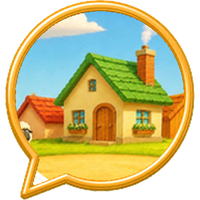
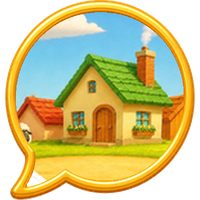
Icona xat veïnat: bombolla daurada 2 amb fletxa gran
Claude-Session: https://claude.ai/code/session_01EDSP4xsThy8KRz6733WLVq

diff --git a/nova/index.html b/nova/index.html
@@ -523,7 +523,7 @@ html,body{-webkit-touch-callout:none;-webkit-user-select:none;user-select:none;-
 
 <script>/* xarxa de seguretat: si l'app no arrenca, botó per actualitzar */setTimeout(function(){var a=document.getElementById("app");if(a&&!a.innerHTML.trim()){a.innerHTML='<div style="padding:40px 20px;text-align:center;font:600 17px system-ui"><p>No s\'ha pogut obrir l\'app.</p><button id="sosup" style="font:700 17px system-ui;padding:12px 22px;border-radius:999px;border:0;background:#17599a;color:#fff">Actualitza</button></div>';document.getElementById("sosup").onclick=function(){(window.caches?caches.keys().then(function(k){return Promise.all(k.map(function(x){return caches.delete(x)}))}):Promise.resolve()).then(function(){location.reload()})};}},2500);</script>
 <script>
-const APPV="1793563188";let UPD=0,UPS=0;
+const APPV="1793563415";let UPD=0,UPS=0;
 
 const IC={"docs": "<svg viewBox=\"0 0 40 40\" width=\"22\" height=\"22\" aria-hidden=\"true\"><path d=\"M9 4h15l8 8v23a2 2 0 0 1-2 2H9a2 2 0 0 1-2-2V6a2 2 0 0 1 2-2z\" fill=\"#fff\" stroke=\"#5b6b7a\" stroke-width=\"1.5\"/><path d=\"M24 4v8h8\" fill=\"#e3e8ee\" stroke=\"#5b6b7a\" stroke-width=\"1.5\" stroke-linejoin=\"round\"/><circle cx=\"27\" cy=\"29\" r=\"8.5\" fill=\"#3f8a3a\" stroke=\"#fff\" stroke-width=\"1.6\"/><path d=\"M27 33.5v-9M23 28l4-4 4 4\" fill=\"none\" stroke=\"#fff\" stroke-width=\"2.2\" stroke-linecap=\"round\" stroke-linejoin=\"round\"/><path d=\"M12 17h10M12 21h7\" stroke=\"#9aa6b2\" stroke-width=\"1.6\" stroke-linecap=\"round\"/></svg>", "receptari": "<svg viewBox=\"0 0 40 40\" width=\"22\" height=\"22\" aria-hidden=\"true\"><path d=\"M6 7c5-2 10-2 14 1v27c-4-3-9-3-14-1z\" fill=\"#fff6e3\" stroke=\"#8a5a2b\" stroke-width=\"1.4\" stroke-linejoin=\"round\"/><path d=\"M34 7c-5-2-10-2-14 1v27c4-3 9-3 14-1z\" fill=\"#fff6e3\" stroke=\"#8a5a2b\" stroke-width=\"1.4\" stroke-linejoin=\"round\"/><path d=\"M4 9v26c6-2 11-2 16 1 5-3 10-3 16-1V9\" fill=\"none\" stroke=\"#c8352b\" stroke-width=\"2.4\" stroke-linejoin=\"round\"/><path d=\"M10 14h6M10 18h6M24 14h6M24 18h5\" stroke=\"#c9a46a\" stroke-width=\"1.5\" stroke-linecap=\"round\"/><path d=\"M27 24c0-2 3-2 3 0 0 2-3 3.5-3 3.5s-3-1.5-3-3.5c0-2 3-2 3 0z\" fill=\"#e0533f\"/></svg>", "menu": "<svg viewBox=\"0 0 40 40\" width=\"22\" height=\"22\" aria-hidden=\"true\"><rect x=\"5\" y=\"7\" width=\"30\" height=\"28\" rx=\"3\" fill=\"#fff\" stroke=\"#2f74b5\" stroke-width=\"1.5\"/><path d=\"M5 10a3 3 0 0 1 3-3h24a3 3 0 0 1 3 3v4H5z\" fill=\"#2f74b5\"/><path d=\"M12 4v6M28 4v6\" stroke=\"#1f4f80\" stroke-width=\"2.2\" stroke-linecap=\"round\"/><circle cx=\"20\" cy=\"25\" r=\"6.5\" fill=\"#f3e3c4\" stroke=\"#c9a46a\" stroke-width=\"1.3\"/><circle cx=\"20\" cy=\"25\" r=\"3.8\" fill=\"#fff\" stroke=\"#e2cfa6\" stroke-width=\"1\"/><path d=\"M10.5 20v10M9 20v3.5a1.5 1.5 0 0 0 3 0V20M29.5 20c1.6 0 1.8 3 1.8 4.6 0 1-.8 1.4-1.8 1.4V30\" fill=\"none\" stroke=\"#8a93a0\" stroke-width=\"1.2\" stroke-linecap=\"round\"/></svg>", "treball": "<svg viewBox=\"0 0 40 40\" width=\"22\" height=\"22\" aria-hidden=\"true\"><rect x=\"8\" y=\"6\" width=\"24\" height=\"30\" rx=\"3\" fill=\"#c98a4b\" stroke=\"#7a4a1e\" stroke-width=\"1.4\"/><rect x=\"11\" y=\"10\" width=\"18\" height=\"23\" rx=\"1.5\" fill=\"#fff\"/><rect x=\"15\" y=\"3.5\" width=\"10\" height=\"5\" rx=\"1.5\" fill=\"#9aa0a6\" stroke=\"#6b7177\" stroke-width=\"1\"/><path d=\"M14 16l2 2 3.5-3.5M14 23l2 2 3.5-3.5\" fill=\"none\" stroke=\"#3f8a3a\" stroke-width=\"1.9\" stroke-linecap=\"round\" stroke-linejoin=\"round\"/><path d=\"M22 17h5M22 24h5M14 29.5h13\" stroke=\"#b9bfc6\" stroke-width=\"1.6\" stroke-linecap=\"round\"/></svg>", "despesa": "<svg viewBox=\"0 0 40 40\" width=\"22\" height=\"22\" aria-hidden=\"true\"><path d=\"M8 4h20v31l-2.5-2-2.5 2-2.5-2-2.5 2-2.5-2-2.5 2-2.5-2L8 35z\" fill=\"#fff\" stroke=\"#7a838b\" stroke-width=\"1.4\" stroke-linejoin=\"round\"/><path d=\"M12 10h12M12 14h9M12 18h12\" stroke=\"#b9bfc6\" stroke-width=\"1.6\" stroke-linecap=\"round\"/><circle cx=\"27\" cy=\"27\" r=\"8\" fill=\"#f2c14a\" stroke=\"#c48a1a\" stroke-width=\"1.5\"/><path d=\"M29.6 23.6a4 4 0 1 0 0 6.8M22.8 25.8h5.4M22.8 28.2h5.4\" fill=\"none\" stroke=\"#8a5a10\" stroke-width=\"1.6\" stroke-linecap=\"round\"/></svg>", "hudsilo": "<svg aria-hidden=\"true\" width=\"30\" height=\"30\" viewBox=\"0 0 64 64\"><defs><linearGradient id=\"hsr\" x1=\"0\" x2=\"1\"><stop offset=\"0\" stop-color=\"#8f1a12\"/><stop offset=\".28\" stop-color=\"#d8392a\"/><stop offset=\".55\" stop-color=\"#e9503d\"/><stop offset=\"1\" stop-color=\"#9e2016\"/></linearGradient><linearGradient id=\"hsroof\" x1=\"0\" x2=\"1\"><stop offset=\"0\" stop-color=\"#3f3029\"/><stop offset=\".45\" stop-color=\"#7b6556\"/><stop offset=\"1\" stop-color=\"#4a3a31\"/></linearGradient><linearGradient id=\"hsgr\" x1=\"0\" y1=\"0\" x2=\"0\" y2=\"1\"><stop offset=\"0\" stop-color=\"#f7d36a\"/><stop offset=\".25\" stop-color=\"#e3a43a\"/><stop offset=\"1\" stop-color=\"#b8711e\"/></linearGradient><linearGradient id=\"hsmet\" x1=\"0\" x2=\"1\"><stop offset=\"0\" stop-color=\"#5d666e\"/><stop offset=\".5\" stop-color=\"#b9c2ca\"/><stop offset=\"1\" stop-color=\"#626b73\"/></linearGradient><linearGradient id=\"hsst\" x1=\"0\" y1=\"0\" x2=\"0\" y2=\"1\"><stop offset=\"0\" stop-color=\"#e4d8c6\"/><stop offset=\"1\" stop-color=\"#a99880\"/></linearGradient></defs><ellipse cx=\"32\" cy=\"58.5\" rx=\"17\" ry=\"4.2\" fill=\"url(#hsst)\" stroke=\"#7d6c56\" stroke-width=\"1.2\"/><path d=\"M17 17h30l-2.6 40.6c-6.2 2.2-18.6 2.2-24.8 0z\" fill=\"url(#hsr)\" stroke=\"#5f130c\" stroke-width=\"1.5\" stroke-linejoin=\"round\"/><path d=\"M22.4 18.5l1 40M27.6 18.6l.4 40.6M32.8 18.6v40.8M38 18.6l-.4 40.6M43.2 18.5l-1 40\" stroke=\"#7d160e\" stroke-width=\"1\" opacity=\".75\"/><path d=\"M20.2 18.8l1.6 38.4\" stroke=\"#f47b66\" stroke-width=\"1.6\" opacity=\".7\"/><path d=\"M17.3 27.5c8.6 2.8 20.8 2.8 29.4 0M18.3 44c8 2.6 19.4 2.6 27.4 0\" fill=\"none\" stroke=\"#5f130c\" stroke-width=\"3.4\" opacity=\".35\"/><path d=\"M17.3 27c8.6 2.8 20.8 2.8 29.4 0M18.3 43.5c8 2.6 19.4 2.6 27.4 0\" fill=\"none\" stroke=\"#fbf6ee\" stroke-width=\"2.4\"/><path d=\"M28.4 21.5h7.2l-1.2 33h-4.8z\" fill=\"#fbf6ee\" stroke=\"#6b1a10\" stroke-width=\"1\"/><path d=\"M29.9 23.2h4.2l-1 29.6h-2.2z\" fill=\"#5d120b\"/><path d=\"M30.4 36.5h3.4l-.7 16.3h-2.2z\" fill=\"url(#hsgr)\"/><path d=\"M30.2 37c.3-4.4 3.5-4.4 3.8 0z\" fill=\"#f7d36a\" stroke=\"#c48a26\" stroke-width=\".5\"/><circle cx=\"31.4\" cy=\"34.8\" r=\".5\" fill=\"#fff3c4\"/><circle cx=\"32.8\" cy=\"35.6\" r=\".4\" fill=\"#fff3c4\"/><path d=\"M19.5 41l-2.6.6.4 14.8M44.5 41l2.6.6-.4 14.8\" fill=\"none\" stroke=\"url(#hsmet)\" stroke-width=\"2.4\" stroke-linecap=\"round\" stroke-linejoin=\"round\"/><rect x=\"15.6\" y=\"55.3\" width=\"3.4\" height=\"2\" rx=\".6\" fill=\"#7d868f\" stroke=\"#3f464c\" stroke-width=\".6\"/><rect x=\"45\" y=\"55.3\" width=\"3.4\" height=\"2\" rx=\".6\" fill=\"#7d868f\" stroke=\"#3f464c\" stroke-width=\".6\"/><path d=\"M46 21.4h4.4v3.4\" fill=\"none\" stroke=\"url(#hsmet)\" stroke-width=\"2.2\" stroke-linecap=\"round\"/><path d=\"M50.4 24.8c1.4 4 .6 8 -1 10\" fill=\"none\" stroke=\"#a87c4f\" stroke-width=\".9\"/><path d=\"M32 3.5 14.2 17.4c5 2.4 30.6 2.4 35.6 0z\" fill=\"url(#hsroof)\" stroke=\"#2a201b\" stroke-width=\"1.5\" stroke-linejoin=\"round\"/><path d=\"M32 4.4l-7.6 13.8M32 4.4l7.2 13.8\" stroke=\"#8d7766\" stroke-width=\".8\" opacity=\".6\"/><path d=\"M21.6 11l6.2-2.2 2.4 4.2-6.4 2.2z\" fill=\"#d3d9de\" stroke=\"#5f676e\" stroke-width=\"1\"/><path d=\"M24.4 11.6l2.4-.8\" stroke=\"#5f676e\" stroke-width=\"1\" stroke-linecap=\"round\"/></svg>", "shopico": "<svg aria-hidden=\"true\" width=\"34\" height=\"34\" viewBox=\"0 0 64 64\"><defs><linearGradient id=\"bw\" x1=\"0\" x2=\"0\" y1=\"0\" y2=\"1\"><stop offset=\"0\" stop-color=\"#9c5f30\"/><stop offset=\"1\" stop-color=\"#6a3b19\"/></linearGradient><linearGradient id=\"bp\" x1=\"0\" x2=\"1\"><stop offset=\"0\" stop-color=\"#6f4120\"/><stop offset=\".5\" stop-color=\"#a86a35\"/><stop offset=\"1\" stop-color=\"#6f4120\"/></linearGradient><linearGradient id=\"bc\" x1=\"0\" x2=\"0\" y1=\"0\" y2=\"1\"><stop offset=\"0\" stop-color=\"#e4b47a\"/><stop offset=\"1\" stop-color=\"#b9824a\"/></linearGradient><linearGradient id=\"bcin\" x1=\"0\" x2=\"0\" y1=\"0\" y2=\"1\"><stop offset=\"0\" stop-color=\"#7a4a24\"/><stop offset=\"1\" stop-color=\"#a86e3c\"/></linearGradient><linearGradient id=\"awr\" x1=\"0\" x2=\"0\" y1=\"0\" y2=\"1\"><stop offset=\"0\" stop-color=\"#f05a48\"/><stop offset=\"1\" stop-color=\"#c62a20\"/></linearGradient><linearGradient id=\"aww\" x1=\"0\" x2=\"0\" y1=\"0\" y2=\"1\"><stop offset=\"0\" stop-color=\"#ffffff\"/><stop offset=\"1\" stop-color=\"#e9ddd0\"/></linearGradient><radialGradient id=\"ar\" cx=\".35\" cy=\".35\" r=\".7\"><stop offset=\"0\" stop-color=\"#ff8a7a\"/><stop offset=\".5\" stop-color=\"#e3261c\"/><stop offset=\"1\" stop-color=\"#9c120c\"/></radialGradient><radialGradient id=\"ag\" cx=\".35\" cy=\".35\" r=\".7\"><stop offset=\"0\" stop-color=\"#d9ff9a\"/><stop offset=\".5\" stop-color=\"#6cc43a\"/><stop offset=\"1\" stop-color=\"#2f7a1a\"/></radialGradient><linearGradient id=\"bk\" x1=\"0\" x2=\"1\"><stop offset=\"0\" stop-color=\"#7a4a24\"/><stop offset=\".5\" stop-color=\"#c0814a\"/><stop offset=\"1\" stop-color=\"#7a4a24\"/></linearGradient></defs><path d=\"M4 50l10-5h40l4 6-10 7H8z\" fill=\"url(#bw)\" stroke=\"#3f230e\" stroke-width=\"1.3\" stroke-linejoin=\"round\"/><path d=\"M12 47l-3 9M20 46l-3 11M28 46l-2 12M36 46l-1 12M44 46l1 12M52 47l2 9\" stroke=\"#4a2a12\" stroke-width=\".9\" opacity=\".7\"/><rect x=\"49\" y=\"12\" width=\"3.6\" height=\"40\" rx=\"1\" fill=\"url(#bp)\" stroke=\"#3f230e\" stroke-width=\"1.1\"/><rect x=\"13.2\" y=\"18\" width=\"3.4\" height=\"28\" rx=\"1\" fill=\"url(#bp)\" stroke=\"#3f230e\" stroke-width=\"1.1\"/><path d=\"M16 40h32v9H17z\" fill=\"#a8622e\" stroke=\"#4a2a12\" stroke-width=\"1.1\"/><path d=\"M17 44.5h31\" stroke=\"#7a431c\" stroke-width=\".9\"/><path d=\"M13 37.5l34-5 4 7.6-35 5.4z\" fill=\"#f1dfbd\" stroke=\"#6b3f17\" stroke-width=\"1.1\" stroke-linejoin=\"round\"/><path d=\"M15 36.5l31.6-4.8 3 6-32 4.9z\" fill=\"url(#bc)\" stroke=\"#5e3614\" stroke-width=\"1.1\" stroke-linejoin=\"round\"/><path d=\"M18.4 37.6l9-1.4 1 2.6-9 1.4zM29.4 35.9l9-1.4 1 2.6-9 1.4zM40.2 34.3l6-.9 1.1 2.6-6.1.9zM19.6 39.9l9-1.4.9 1.4-9 1.4zM30.6 38.2l9-1.4.9 1.4-9 1.4z\" fill=\"url(#bcin)\"/><path d=\"M27.4 36.2l2.1 4.3M38.4 34.5l2 4.3\" stroke=\"#5e3614\" stroke-width=\"1.2\"/><path d=\"M8.5 15.5C14 9 38 5.5 54 9.5l1.6 5\" fill=\"none\" stroke=\"#7a1e14\" stroke-width=\"1.4\"/><path d=\"M8.5 15.5 10 24.5c2.4 2 5.2 1.6 6.4-.6 2.2 2.1 5 1.8 6.3-.5 2.2 2 5 1.7 6.2-.6 2.2 2 5 1.6 6.2-.6 2.2 1.9 5 1.6 6.1-.7 2.2 1.9 4.9 1.5 6-.8 2.1 1.7 4.7 1.3 5.6-1L54 9.5C38 5.5 14 9 8.5 15.5z\" fill=\"url(#aww)\" stroke=\"#7a1e14\" stroke-width=\"1.4\" stroke-linejoin=\"round\"/><path d=\"M10 24.5c2.4 2 5.2 1.6 6.4-.6l-1.4-11.6-6.5 3.2zM22.7 23.4c2.2 2 5 1.7 6.2-.6l-1.2-13-6.7 1.4zM35.1 22.2c2.2 1.9 5 1.6 6.1-.7l-.6-13.1-6.6.4zM47.2 20.7c2.1 1.7 4.7 1.3 5.6-1L54 9.5l-6.4-1.1z\" fill=\"url(#awr)\"/><path d=\"M10.5 16.4c8-4.2 28-6 42.4-3.4\" fill=\"none\" stroke=\"#fff\" stroke-width=\"1\" opacity=\".55\"/><circle cx=\"31\" cy=\"7.3\" r=\"1.3\" fill=\"#a9b2ba\" stroke=\"#5f676e\" stroke-width=\".6\"/><circle cx=\"53.6\" cy=\"9.6\" r=\"1.3\" fill=\"#a9b2ba\" stroke=\"#5f676e\" stroke-width=\".6\"/><path d=\"M2.5 48.5h12l-1.4 9.5H4z\" fill=\"url(#bk)\" stroke=\"#4a2a12\" stroke-width=\"1.1\"/><path d=\"M3.2 52.3h10.6\" stroke=\"#9aa3ab\" stroke-width=\"1.6\"/><circle cx=\"5.6\" cy=\"47.2\" r=\"2.6\" fill=\"url(#ag)\"/><circle cx=\"9.4\" cy=\"46.4\" r=\"2.7\" fill=\"url(#ag)\"/><circle cx=\"12.3\" cy=\"47.6\" r=\"2.3\" fill=\"url(#ag)\"/><path d=\"M47 51.5h12l-1.4 9.5h-9.2z\" fill=\"url(#bk)\" stroke=\"#4a2a12\" stroke-width=\"1.1\"/><path d=\"M47.7 55.3h10.6\" stroke=\"#9aa3ab\" stroke-width=\"1.6\"/><circle cx=\"50.2\" cy=\"50.2\" r=\"2.6\" fill=\"url(#ar)\"/><circle cx=\"54\" cy=\"49.4\" r=\"2.7\" fill=\"url(#ar)\"/><circle cx=\"56.8\" cy=\"50.6\" r=\"2.3\" fill=\"url(#ar)\"/><path d=\"M54 46.8l.4-1.4\" stroke=\"#4a2a12\" stroke-width=\".8\"/></svg>", "veiico": "<svg aria-hidden=\"true\" width=\"32\" height=\"32\" viewBox=\"0 0 64 64\"><path d=\"M2 47c10-5 21-6 30-4s20 3 30-2v19H2z\" fill=\"#7fb944\"/><g stroke=\"#6b4423\" stroke-width=\"1.8\" stroke-linejoin=\"round\"><rect x=\"5\" y=\"32\" width=\"15\" height=\"14\" rx=\"1\" fill=\"#fbf1dc\"/><path d=\"M3 33.5 12.5 22 22 33.5z\" fill=\"#d1453b\"/><rect x=\"44\" y=\"32\" width=\"15\" height=\"14\" rx=\"1\" fill=\"#fbf1dc\"/><path d=\"M42 33.5 51.5 22 61 33.5z\" fill=\"#eaa63a\"/><rect x=\"38\" y=\"15\" width=\"4.5\" height=\"9\" fill=\"#a8562c\"/><rect x=\"19\" y=\"28\" width=\"26\" height=\"21\" rx=\"1.2\" fill=\"#fffaf0\"/><path d=\"M16 30 32 14l16 16z\" fill=\"#6e8c3c\"/><rect x=\"28.5\" y=\"38\" width=\"7\" height=\"11\" rx=\"1\" fill=\"#9a5a2b\"/></g><rect x=\"22.5\" y=\"32\" width=\"4.5\" height=\"4\" fill=\"#8cc7ec\"/><rect x=\"37\" y=\"32\" width=\"4.5\" height=\"4\" fill=\"#8cc7ec\"/></svg>", "crea": "<svg viewBox=\"0 0 40 40\" width=\"22\" height=\"22\" aria-hidden=\"true\"><path d=\"M8 4h15l7 7v24a2 2 0 0 1-2 2H8a2 2 0 0 1-2-2V6a2 2 0 0 1 2-2z\" fill=\"#fff\" stroke=\"#5b6b7a\" stroke-width=\"1.5\"/><path d=\"M23 4v7h7\" fill=\"#e3e8ee\" stroke=\"#5b6b7a\" stroke-width=\"1.5\" stroke-linejoin=\"round\"/><path d=\"M11 15h11M11 19h12M11 23h7\" stroke=\"#9aa6b2\" stroke-width=\"1.6\" stroke-linecap=\"round\"/><path d=\"M20 30 31 19l4 4-11 11z\" fill=\"#eaa63a\" stroke=\"#8a5a2b\" stroke-width=\"1.3\" stroke-linejoin=\"round\"/><path d=\"M31 19l1.6-1.6a1.4 1.4 0 0 1 2 0l2 2a1.4 1.4 0 0 1 0 2L35 23z\" fill=\"#e0533f\" stroke=\"#8a5a2b\" stroke-width=\"1.3\" stroke-linejoin=\"round\"/><path d=\"M20 30l4 4-6 2z\" fill=\"#f3e3c4\" stroke=\"#8a5a2b\" stroke-width=\"1.3\" stroke-linejoin=\"round\"/><path d=\"M18.6 34.4 18 36l1.6-.6z\" fill=\"#3d3d3d\"/></svg>", "qc": "<svg viewBox=\"0 0 40 40\" width=\"22\" height=\"22\" aria-hidden=\"true\"><path d=\"M15.5 19 20.3 7.2l3.3 1.3-3.4 10.8z\" fill=\"#eaa63a\" stroke=\"#a8562c\" stroke-width=\"1.3\" stroke-linejoin=\"round\"/><path d=\"M18 13.5l2 .8M17 16l1.8.7\" stroke=\"#a8562c\" stroke-width=\"1\" stroke-linecap=\"round\"/><path d=\"M21.5 7.6c-.9-2.6.2-4.3 1.6-4.9.6 1.8.4 3.6-.9 5.2zM22.3 8c1.6-2 3.6-2.2 5-1.4-1.3 1.3-3 1.9-5 1.4z\" fill=\"#7fb944\" stroke=\"#4f7a2a\" stroke-width=\"1\" stroke-linejoin=\"round\"/><path d=\"M25.5 19c-.3-4.2 1.9-7.2 5.6-8.4-.1 3.8-2 6.8-5.6 8.4z\" fill=\"#7fb944\" stroke=\"#4f7a2a\" stroke-width=\"1.2\" stroke-linejoin=\"round\"/><path d=\"M7 20h26v8a7 7 0 0 1-7 7H14a7 7 0 0 1-7-7z\" fill=\"#d8392a\" stroke=\"#8f1a12\" stroke-width=\"1.5\" stroke-linejoin=\"round\"/><path d=\"M4.5 19.5h31\" stroke=\"#8f1a12\" stroke-width=\"2.6\" stroke-linecap=\"round\"/><path d=\"M7 23.5H3.5M33 23.5h3.5\" stroke=\"#8f1a12\" stroke-width=\"2.4\" stroke-linecap=\"round\"/><path d=\"M11 24v4.5\" stroke=\"#f08a7a\" stroke-width=\"1.8\" stroke-linecap=\"round\"/></svg>", "casa": "<svg viewBox=\"0 0 40 40\" width=\"22\" height=\"22\" aria-hidden=\"true\"><ellipse cx=\"20\" cy=\"37.2\" rx=\"14\" ry=\"1.6\" fill=\"#000\" opacity=\".13\"/><path d=\"M7 19 20 7l13 12v17H7z\" fill=\"#f3e3c4\" stroke=\"#7a4a1e\" stroke-width=\"1.3\" stroke-linejoin=\"round\"/><path d=\"M4 20.5 20 5.5l16 15\" fill=\"none\" stroke=\"#c8352b\" stroke-width=\"3.4\" stroke-linecap=\"round\" stroke-linejoin=\"round\"/><rect x=\"26\" y=\"8\" width=\"4\" height=\"7\" fill=\"#9b5a2b\"/><rect x=\"16.5\" y=\"25\" width=\"7\" height=\"11\" rx=\"1\" fill=\"#9b5a2b\"/><path d=\"M14 21.5a3 3 0 0 1 6 0c0 2.6-3 4.4-3 4.4s-3-1.8-3-4.4zM20 21.5a3 3 0 0 1 6 0c0 2.6-3 4.4-3 4.4\" fill=\"none\"/><path d=\"M17.2 18.6c-1.6-1.6-4.2-.2-3.6 2 .5 1.8 3.6 3.6 3.6 3.6s3.1-1.8 3.6-3.6c.6-2.2-2-3.6-3.6-2z\" fill=\"#e0533f\" transform=\"translate(2.8 -1.2)\"/></svg>", "graner": "<svg viewBox=\"0 0 40 40\" width=\"22\" height=\"22\" aria-hidden=\"true\"><ellipse cx=\"20\" cy=\"37.2\" rx=\"15\" ry=\"1.6\" fill=\"#000\" opacity=\".13\"/><path d=\"M6 17.5 9.5 9.5 20 4.5 30.5 9.5 34 17.5V36H6z\" fill=\"#c8352b\" stroke=\"#7d1d17\" stroke-width=\"1.1\" stroke-linejoin=\"round\"/><path d=\"M3.5 18.5 8.4 8.2 20 2.8 31.6 8.2 36.5 18.5\" fill=\"none\" stroke=\"#2f3236\" stroke-width=\"3.2\" stroke-linecap=\"round\" stroke-linejoin=\"round\"/><path d=\"M9 21h22\" stroke=\"#fff\" stroke-width=\"1.6\"/><path d=\"M10 12.4 9.6 13\" stroke=\"#a52a22\" stroke-width=\".8\"/><path d=\"M12 24v12M28 24v12\" stroke=\"#a52a22\" stroke-width=\".8\" opacity=\".7\"/><rect x=\"16.5\" y=\"9.8\" width=\"7\" height=\"6.4\" fill=\"#fff\" stroke=\"#7d1d17\" stroke-width=\".6\"/><path d=\"M16.5 9.8 23.5 16.2M23.5 9.8 16.5 16.2\" stroke=\"#c8352b\" stroke-width=\"1.1\"/><rect x=\"13.5\" y=\"23.5\" width=\"13\" height=\"12.5\" fill=\"#fff\"/><rect x=\"15\" y=\"25\" width=\"10\" height=\"11\" fill=\"#8e2219\"/><path d=\"M15 25 25 36M25 25 15 36\" stroke=\"#fff\" stroke-width=\"1.3\"/><path d=\"M20 25v11\" stroke=\"#fff\" stroke-width=\"1\"/><rect x=\"5.5\" y=\"35.5\" width=\"29\" height=\"1.6\" rx=\".8\" fill=\"#9aa0a6\"/></svg>", "cart": "<svg viewBox=\"0 0 40 40\" width=\"28\" height=\"28\" aria-hidden=\"true\"><path d=\"M3 7h5l4 20h20\" fill=\"none\" stroke=\"#1f4f80\" stroke-width=\"2.4\" stroke-linecap=\"round\" stroke-linejoin=\"round\"/><path d=\"M9.5 12h26l-3 12H12z\" fill=\"#fff\" stroke=\"#2f74b5\" stroke-width=\"1.6\" stroke-linejoin=\"round\"/><path d=\"M15 12.5 18 5.5l3 1.2-2.4 5.8z\" fill=\"#eaa63a\" stroke=\"#a8562c\" stroke-width=\"1.1\" stroke-linejoin=\"round\"/><path d=\"M22 12c.2-3.6 2.2-6 5.4-6.8-.3 3.2-2 5.6-5.4 6.8z\" fill=\"#7fb944\" stroke=\"#4f7a2a\" stroke-width=\"1.1\" stroke-linejoin=\"round\"/><circle cx=\"27\" cy=\"9.5\" r=\"2.6\" fill=\"#d8392a\" stroke=\"#8f1a12\" stroke-width=\"1\"/><path d=\"M15 17h15M14 21h15\" stroke=\"#9aa6b2\" stroke-width=\"1.4\" stroke-linecap=\"round\"/><circle cx=\"14\" cy=\"32\" r=\"2.6\" fill=\"#3d3d3d\"/><circle cx=\"29\" cy=\"32\" r=\"2.6\" fill=\"#3d3d3d\"/></svg>"};
 const PI=n=>`<img class="pi" src="img/${n}.png" alt="" aria-hidden="true">`;Object.assign(IC,{menu:PI("nav_menu"),cart:PI("icona_compra"),receptari:PI("nav_receptari"),despesa:PI("nav_despesa"),crea:PI("nav_crea"),qc:PI("nav_que_cuino"),hudsilo:PI("hud_sitja"),shopico:PI("hud_botiga_37"),veiico:PI("hud_veinat")});
